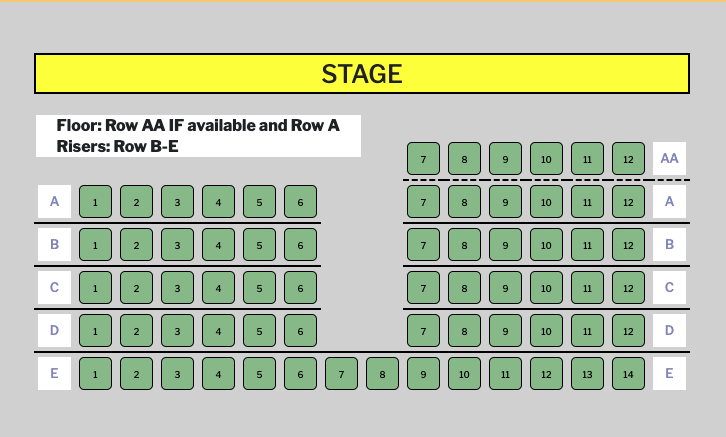
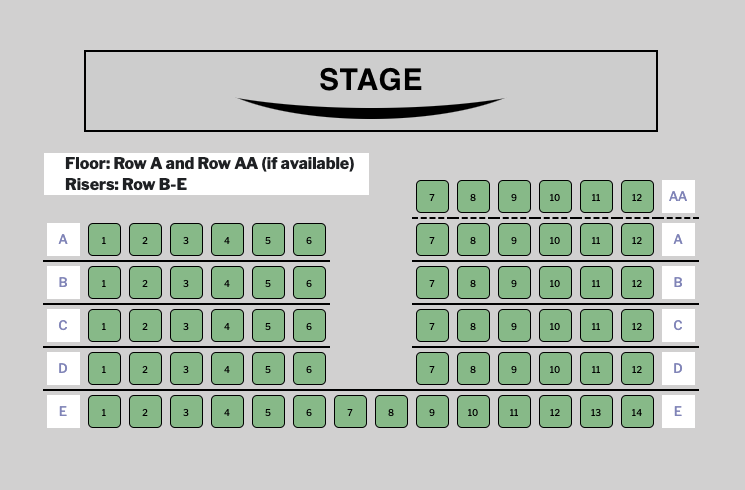
new venues

diff --git a/Completed/36721.html b/Completed/36721.html
@@ -1,0 +1,203 @@
+<!-- Wigwam Event Center -->
+<table width="100%" border="0" cellspacing="0" cellpadding="0" align="center">
+  <!-- Stage Image -->
+  <tr>
+    <td>
+      <div align="center" style="position: relative; z-index: 0">
+        <img
+          src="https://s3.amazonaws.com/prdv2-dt-client/seating_images/stage.png"
+          alt="STAGE"
+          width="300"
+          height="80"
+        />
+      </div>
+    </td>
+  </tr>
+
+  <tr>
+    <td>
+      <div align="center" style="position: relative; z-index: 0">
+        <img
+          src="https://s3.amazonaws.com/prdv2-dt-client/seating_images/pixel.png"
+          width="1"
+          height="50"
+        />
+      </div>
+    </td>
+  </tr>
+
+  <!-- ALL -->
+  <tr>
+    <td>
+      <div align="center" style="position: relative">
+        <table align="center">
+          <!-- Names -->
+          <tr>
+            <td>
+              <div
+                class="adjust rotate25R"
+                align="center"
+                style="
+                  position: relative;
+                  z-index: 0;
+                  bottom: 65px;
+                  left: 415px;
+                "
+              >
+                {{{ sectionNames.48109 }}}
+              </div>
+            </td>
+            <td rowspan="4">
+              <div align="center" style="position: relative; z-index: 0">
+                <img
+                  src="https://s3.amazonaws.com/prdv2-dt-client/seating_images/pixel.png"
+                  width="40"
+                  height="1"
+                />
+              </div>
+            </td>
+            <td>
+              <div align="center" style="position: relative; z-index: 0">
+                {{{ sectionNames.48112 }}}
+              </div>
+            </td>
+            <td rowspan="4">
+              <div align="center" style="position: relative; z-index: 0">
+                <img
+                  src="https://s3.amazonaws.com/prdv2-dt-client/seating_images/pixel.png"
+                  width="40"
+                  height="1"
+                />
+              </div>
+            </td>
+            <td>
+              <div
+                class="adjust rotate25L"
+                align="center"
+                style="
+                  position: relative;
+                  z-index: 0;
+                  bottom: 65px;
+                  right: 415px;
+                "
+              >
+                {{{ sectionNames.48114 }}}
+              </div>
+            </td>
+          </tr>
+
+          <!-- Seats -->
+          <tr>
+            <td>
+              <div
+                class="adjust rotate25R"
+                align="right"
+                style="
+                  position: relative;
+                  z-index: 2;
+                  bottom: 160px;
+                  left: 200px;
+                "
+              >
+                <table align="right" border="0" cellspacing="0" cellpadding="0">
+                  <tr>
+                    <td>
+                      <div align="right">{{{ sectionsMarkup.48108 }}}</div>
+                    </td>
+                  </tr>
+                  <tr>
+                    <td>
+                      <div align="right">{{{ sectionsMarkup.48109 }}}</div>
+                    </td>
+                  </tr>
+                  <tr>
+                    <td>
+                      <div align="right">{{{ sectionsMarkup.48110 }}}</div>
+                    </td>
+                  </tr>
+                </table>
+              </div>
+            </td>
+            <td rowspan="3" valign="top">
+              <div align="center" style="position: relative; z-index: 1">
+                <table
+                  align="center"
+                  border="0"
+                  cellspacing="0"
+                  cellpadding="0"
+                >
+                  <tr>
+                    <td>
+                      <div align="center">{{{ sectionsMarkup.48111 }}}</div>
+                    </td>
+                  </tr>
+                  <tr>
+                    <td>
+                      <div align="center">{{{ sectionsMarkup.48112 }}}</div>
+                    </td>
+                  </tr>
+                </table>
+              </div>
+            </td>
+            <td>
+              <div
+                class="adjust rotate25L"
+                align="left"
+                style="
+                  position: relative;
+                  z-index: 2;
+                  bottom: 160px;
+                  right: 200px;
+                "
+              >
+                <table align="left" border="0" cellspacing="0" cellpadding="0">
+                  <tr>
+                    <td>
+                      <div align="left">{{{ sectionsMarkup.48113 }}}</div>
+                    </td>
+                  </tr>
+                  <tr>
+                    <td>
+                      <div align="left">{{{ sectionsMarkup.48114 }}}</div>
+                    </td>
+                  </tr>
+                  <tr>
+                    <td>
+                      <div align="left">{{{ sectionsMarkup.48115 }}}</div>
+                    </td>
+                  </tr>
+                </table>
+              </div>
+            </td>
+          </tr>
+
+          <tr>
+            <td>
+              <div align="center" style="position: relative; z-index: 0">
+                <img
+                  src="https://s3.amazonaws.com/prdv2-dt-client/seating_images/pixel.png"
+                  width="1"
+                  height="60"
+                />
+              </div>
+            </td>
+          </tr>
+
+          <!-- Row Z -->
+          <tr>
+            <td>
+              <div align="right" style="position: relative; z-index: 3">
+                {{{ sectionsMarkup.48116 }}}
+              </div>
+            </td>
+            <td>
+              <div align="left" style="position: relative; z-index: 3">
+                {{{ sectionsMarkup.48117 }}}
+              </div>
+            </td>
+          </tr>
+        </table>
+      </div>
+    </td>
+  </tr>
+</table>

diff --git a/Completed/36728.html b/Completed/36728.html
@@ -1,0 +1,65 @@
+<!-- Black Box Theatre -->
+<table width="100%" border="0" cellspacing="0" cellpadding="0" align="center">
+  <!-- Stage Image -->
+  <tr>
+    <td>
+      <div align="center">
+        <img
+          src="https://s3.amazonaws.com/prdv2-dt-client/seating_images/stage.png"
+          alt="STAGE"
+          width="300"
+          height="80"
+        />
+      </div>
+    </td>
+  </tr>
+
+  <tr>
+    <td>
+      <div align="center">
+        <img
+          src="https://s3.amazonaws.com/prdv2-dt-client/seating_images/pixel.png"
+          width="1"
+          height="10"
+        />
+      </div>
+    </td>
+  </tr>
+
+  <!-- ALL -->
+  <tr>
+    <td>
+      <div align="center">
+        <table align="center">
+          <!-- Names -->
+          <tr>
+            <td>
+              <div align="center">{{{ sectionNames.48106 }}}</div>
+            </td>
+            <td rowspan="2">
+              <div align="center">
+                <img
+                  src="https://s3.amazonaws.com/prdv2-dt-client/seating_images/pixel.png"
+                  width="40"
+                  height="1"
+                />
+              </div>
+            </td>
+            <td>
+              <div align="center">{{{ sectionNames.48107 }}}</div>
+            </td>
+          </tr>
+          <!-- Seats -->
+          <tr>
+            <td>
+              <div align="left">{{{ sectionsMarkup.48106 }}}</div>
+            </td>
+            <td>
+              <div align="right">{{{ sectionsMarkup.48107 }}}</div>
+            </td>
+          </tr>
+        </table>
+      </div>
+    </td>
+  </tr>
+</table>

diff --git a/Completed/36367.html b/Completed/36367.html
@@ -15,10 +15,11 @@
     justify-content: center;
     align-items: center;
     text-align: center;
-    height: 41px;
+    height: 82px;
     border: 2px solid black;
-    background-color: yellow;
+    background-color: lightgray;
     font-size: 25px;
+    width: 100%;
   }
   .bb-one > div > table:nth-child(1),
   .bb-one > div > table:nth-child(2),
@@ -60,12 +61,19 @@
           <!-- Stage Image -->
           <tr>
             <td>
-              <div
-                class="stage-space"
-                align="center"
-                style="position: relative; z-index: 0"
-              >
-                STAGE
+              <div style="margin: 0px 41px">
+                <div
+                  class="stage-space"
+                  align="center"
+                  style="position: relative; z-index: 0"
+                >
+                  <img
+                    src="https://s3.amazonaws.com/prdv2-dt-client/seating_images/stage.png"
+                    alt="STAGE"
+                    width="300"
+                    height="80"
+                  />
+                </div>
               </div>
             </td>
           </tr>
@@ -139,7 +147,7 @@
           <tr>
             <td>
               <div align="left" style="width: 100%; padding-left: 20px">
-                <strong>Floor: Row AA IF available and Row A</strong>
+                <strong>Floor: Row A and Row AA (if available)</strong>
               </div>
             </td>
           </tr>

diff --git a/Completed/36672.html b/Completed/36672.html
@@ -1,0 +1,50 @@
+<!-- Provost Theater -->
+<table width="100%" border="0" cellspacing="0" cellpadding="0" align="center">
+  <!-- Stage Image -->
+  <tr>
+    <td>
+      <div align="center">
+        <img
+          src="https://s3.amazonaws.com/prdv2-dt-client/seating_images/stage.png"
+          alt="STAGE"
+          width="300"
+          height="80"
+        />
+      </div>
+    </td>
+  </tr>
+
+  <tr>
+    <td>
+      <div align="center">
+        <img
+          src="https://s3.amazonaws.com/prdv2-dt-client/seating_images/pixel.png"
+          width="1"
+          height="10"
+        />
+      </div>
+    </td>
+  </tr>
+
+  <!-- ALL -->
+  <tr>
+    <td>
+      <div align="center">
+        <table align="center">
+          <!-- Names -->
+          <tr>
+            <td>
+              <div align="center">{{{ sectionNames.48105 }}}</div>
+            </td>
+          </tr>
+          <!-- Seats -->
+          <tr>
+            <td>
+              <div align="center">{{{ sectionsMarkup.48105 }}}</div>
+            </td>
+          </tr>
+        </table>
+      </div>
+    </td>
+  </tr>
+</table>
